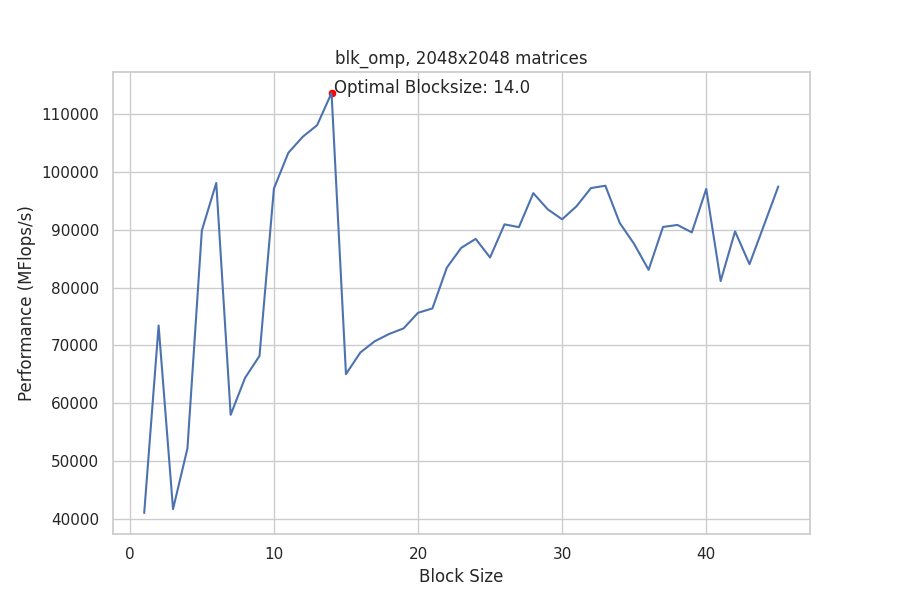
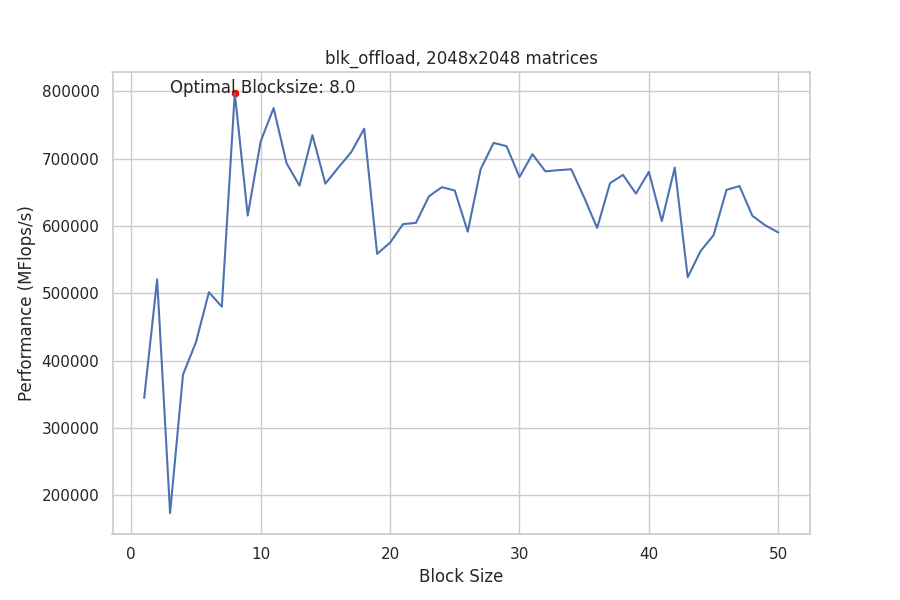
new pics

diff --git a/assignment3_gpu_computing/matmult/plot_functions.py b/assignment3_gpu_computing/matmult/plot_functions.py
@@ -22,10 +22,10 @@ markers = {
 
 def plot_block_experiment(experiment: str):
     df = io_functions.read_experiment(experiment)
-    version = "blk_omp"
+    version = "blk_offload"
     omp_df = df.query('version==@version')
     print(df)
-    omp_df.iloc[:, 1:-3] = omp_df.iloc[:, 1:-3].astype(float)
+    omp_df.iloc[:, 1:-1] = omp_df.iloc[:, 1:-1].astype(float)
     fig = sns.lineplot(data=omp_df, x='block_size', y='performance')
 
     df_max = omp_df.query("(performance == performance.max())")[["block_size", "performance"]].reset_index(drop=True)
